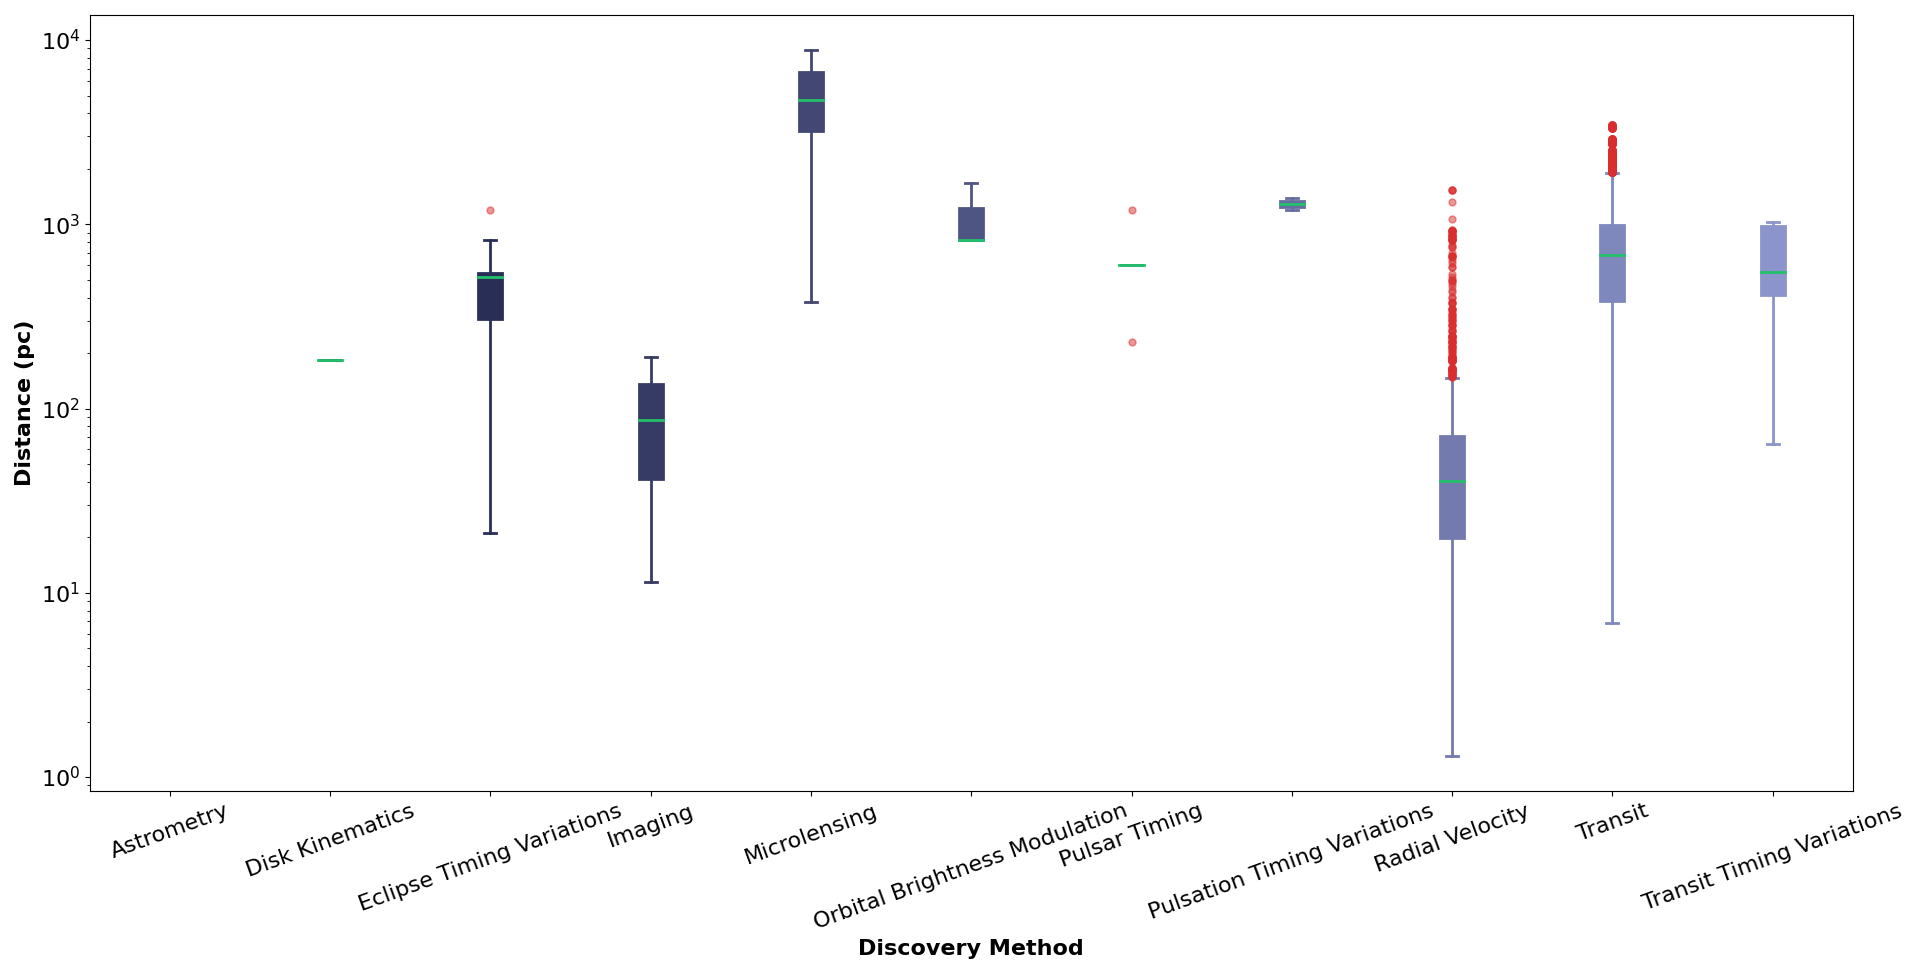
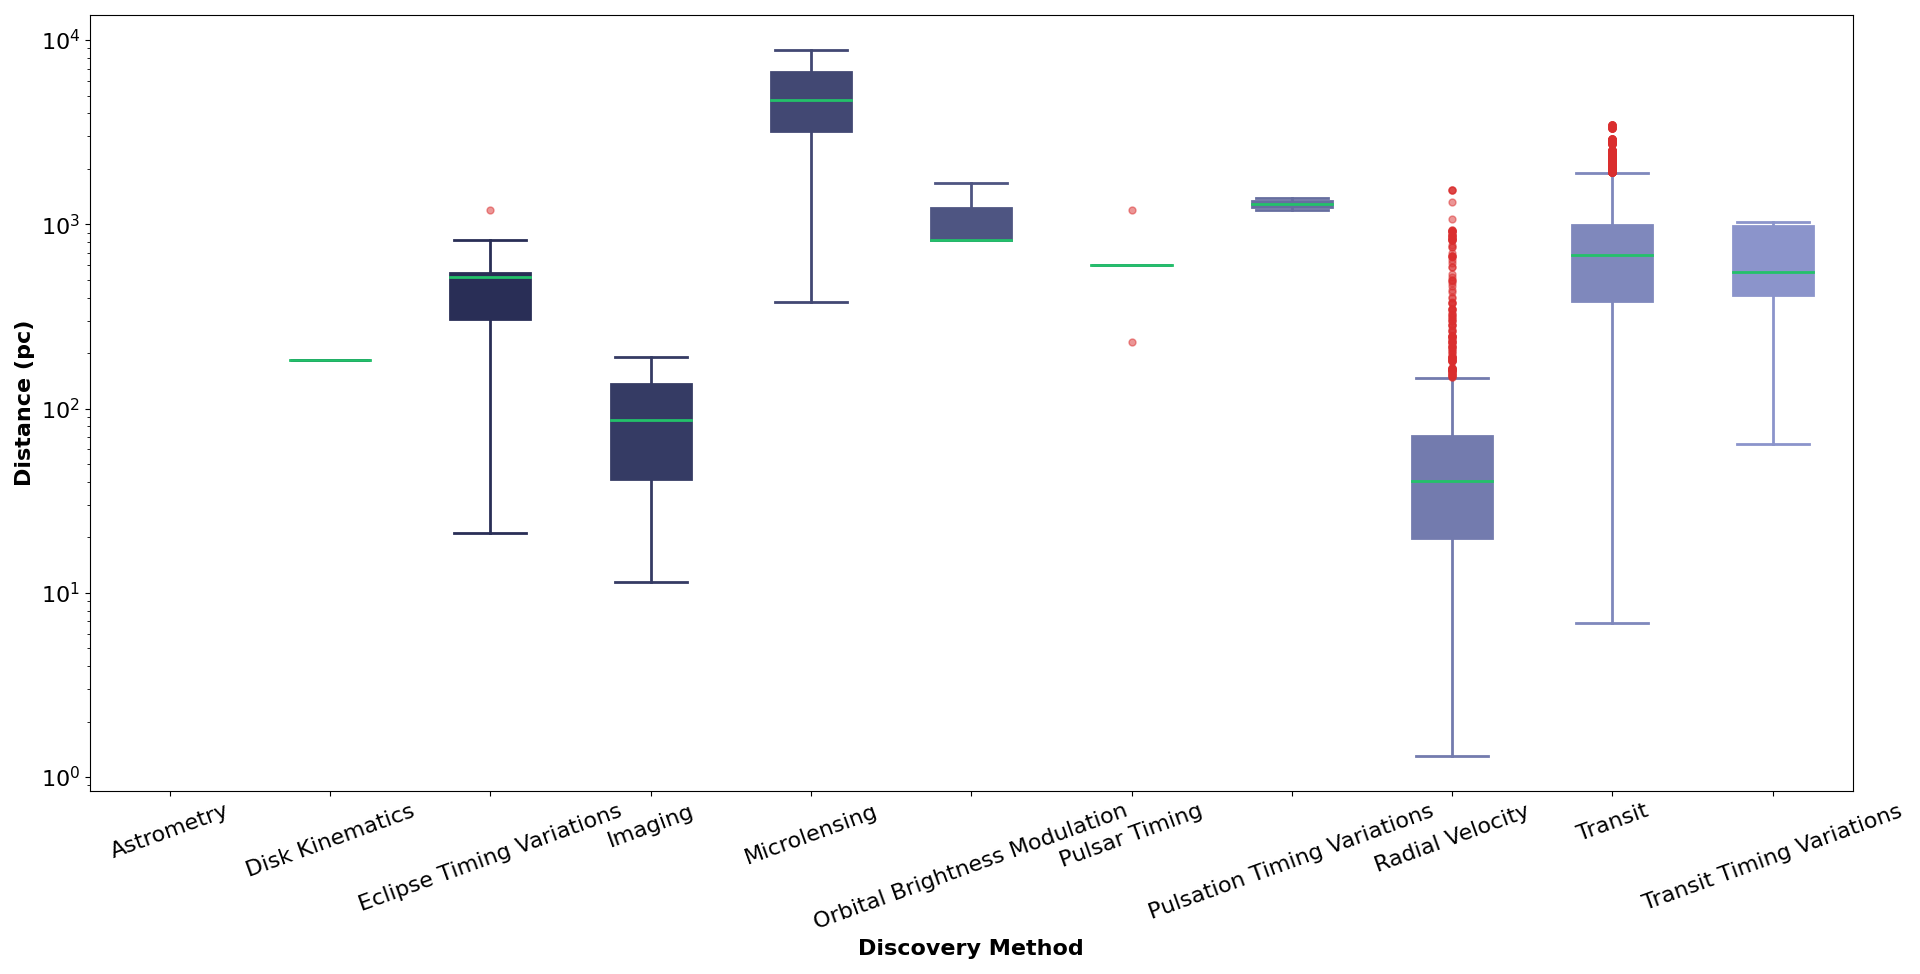
boxplot ggplot ok

diff --git a/Plot_types/Boxplot/Boxplot_Python_matplotlib.py b/Plot_types/Boxplot/Boxplot_Python_matplotlib.py
@@ -40,16 +40,18 @@ fig, ax = plt.subplots(
     figsize = (20, 10),
     tight_layout = True
 )
+outlier_color = "#DA2E2E"
+median_color = "#23C16A"
 for l, lvl in enumerate(lvls):
     edge_color = my_palette[l]
     fill_color = my_palette[l]
-    outlier_color = "#DA2E2E"
     df_lvl = df_plot.loc[df_plot.loc[:, cat_var] == lvl, num_var].values
     df_lvl = df_lvl[~np.isnan(df_lvl)]
     bp = ax.boxplot(
         x = df_lvl,
         labels = [lvl],
         positions = [l],
+        widths = 0.5,
         patch_artist = True
     )
     for patch in bp["boxes"]:
@@ -66,11 +68,12 @@ for l, lvl in enumerate(lvls):
     for patch in bp["caps"]:
         patch.set(
             color = edge_color,
-            linewidth = 2
+            linewidth = 2,
+            xdata = patch.get_xdata() + (-0.1, 0.1)
         )
     for patch in bp["medians"]:
         patch.set(
-            color = "#23C16A",
+            color = median_color,
             linewidth = 2
         )
     for patch in bp["fliers"]:
@@ -103,4 +106,5 @@ _ = ax.tick_params(
     which = "major", 
     labelsize = 16
 )
+
 
